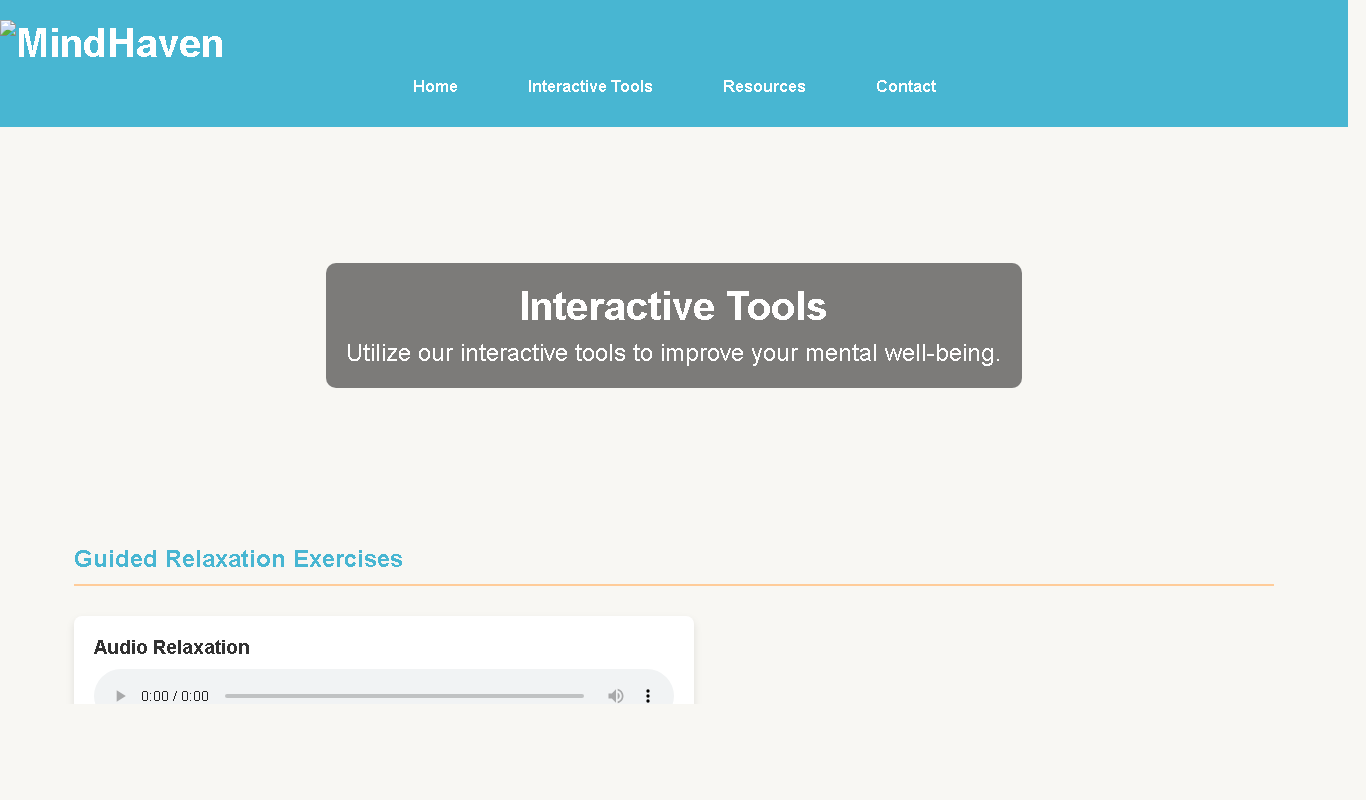
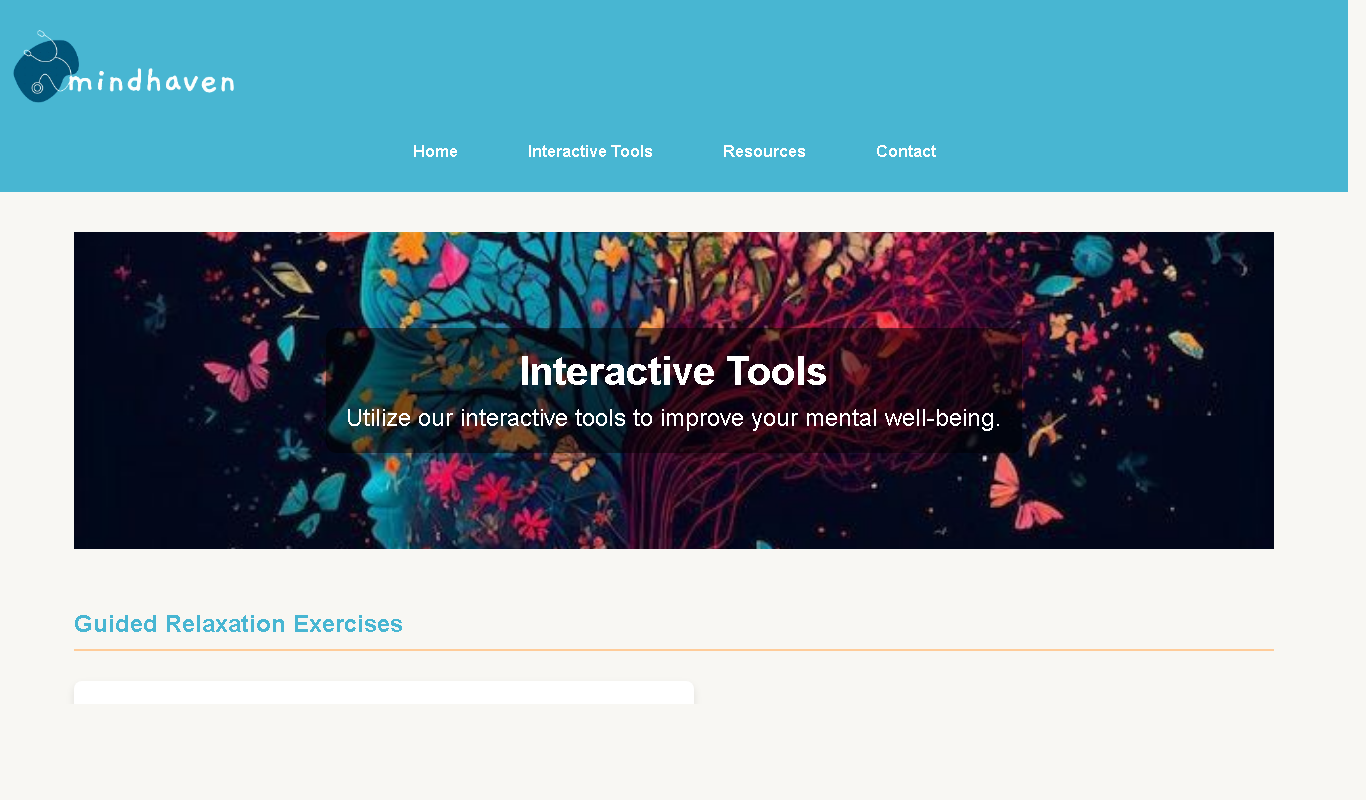
Fix broken image paths, remove personal name and phone numbers, document the demo access

diff --git a/website/profassistant.html b/website/profassistant.html
@@ -12,7 +12,7 @@
       <div class="container">
         <h1>
           <img
-            src="C:\Users\charfoun\Desktop\task bootcamp\Capture_d_écran_2024-11-23_233331-removebg-preview.png"
+            src="Capture_d_écran_2024-11-23_233331-removebg-preview.png"
             alt="MindHaven"
             style="width: 250px; height: auto"
           />
@@ -59,7 +59,7 @@
           <div class="card-list">
             <div class="card">
               <img
-                src="C:\Users\charfoun\Desktop\task bootcamp\istockphoto-1490764451-612x612.jpg"
+                src="istockphoto-1490764451-612x612.jpg"
                 alt="Dr. John Doe"
               />
               <div class="card-info">
@@ -72,7 +72,7 @@
             </div>
             <div class="card">
               <img
-                src="C:\Users\charfoun\Desktop\task bootcamp\istockphoto-1270067126-612x612.jpg"
+                src="istockphoto-1270067126-612x612.jpg"
                 alt="Dr. Jane Smith"
               />
               <div class="card-info">
@@ -85,7 +85,7 @@
             </div>
             <div class="card">
               <img
-                src="C:\Users\charfoun\Desktop\task bootcamp\istockphoto-1413764595-612x612.jpg"
+                src="istockphoto-1413764595-612x612.jpg"
                 alt="Dr. Emily Davis"
               />
               <div class="card-info">
@@ -98,7 +98,7 @@
             </div>
             <div class="card">
               <img
-                src="C:\Users\charfoun\Desktop\task bootcamp\happy-middle-aged-professional-business-260nw-2454390621.webp"
+                src="happy-middle-aged-professional-business-260nw-2454390621.webp"
                 alt="Dr. Michael Brown"
               />
               <div class="card-info">
@@ -118,11 +118,11 @@
           <h2>Emergency Services</h2>
           <ul>
             <li>
-              Emergency Hotline: <a href="tel:+21693466720">+216 93466720</a>
+              Emergency Hotline: <a href="tel:+21600000000">+216 00 000 000</a>
             </li>
             <li>
               Mental Health Hotline:
-              <a href="tel:+0987654321">+216 53534980</a>
+              <a href="tel:+21600000001">+216 00 000 001</a>
             </li>
             <!-- Add more emergency services as needed -->
           </ul>

diff --git a/website/home.html b/website/home.html
@@ -36,7 +36,7 @@
         <div class="product">
           <div class="product-image" onclick="expandImage(this)">
             <img
-              src="C:\Users\charfoun\Desktop\task bootcamp\c17d8ce3-8f84-420f-8e90-e95b76b3e36c.jpg"
+              src="c17d8ce3-8f84-420f-8e90-e95b76b3e36c.jpg"
               alt="Product 1"
               width="300"
             />

diff --git a/website/assistant.js b/website/assistant.js
@@ -10,7 +10,7 @@ document.addEventListener("DOMContentLoaded", () => {
     const accessCode = document.getElementById("access-code").value;
 
     // Example credentials for validation
-    const validName = "achref slimen";
+    const validName = "demo";
     const validAccessCode = "12345";
 
     if (name === validName && accessCode === validAccessCode) {

diff --git a/website/community.html b/website/community.html
@@ -12,7 +12,7 @@
       <div class="container">
         <h1>
           <img
-            src="C:\Users\charfoun\Desktop\task bootcamp\Capture_d_écran_2024-11-23_233331-removebg-preview.png"
+            src="Capture_d_écran_2024-11-23_233331-removebg-preview.png"
             alt="MindHaven"
             style="width: 250px; height: auto"
           />

diff --git a/website/contact.html b/website/contact.html
@@ -12,7 +12,7 @@
       <div class="container">
         <h1>
           <img
-            src="C:\Users\charfoun\Desktop\task bootcamp\Capture_d_écran_2024-11-23_233331-removebg-preview.png"
+            src="Capture_d_écran_2024-11-23_233331-removebg-preview.png"
             alt="MindHaven"
             style="width: 250px; height: auto"
           />

diff --git a/website/interactive.html b/website/interactive.html
@@ -12,7 +12,7 @@
       <div class="container">
         <h1>
           <img
-            src="C:\Users\charfoun\Desktop\task bootcamp\Capture_d_écran_2024-11-23_233331-removebg-preview.png"
+            src="Capture_d_écran_2024-11-23_233331-removebg-preview.png"
             alt="MindHaven"
             style="width: 250px; height: auto"
           />

diff --git a/website/subscription.html b/website/subscription.html
@@ -12,7 +12,7 @@
       <div class="container">
         <h1>
           <img
-            src="C:\Users\charfoun\Desktop\task bootcamp\Capture_d_écran_2024-11-23_233331-removebg-preview.png"
+            src="Capture_d_écran_2024-11-23_233331-removebg-preview.png"
             alt="MindHaven"
             style="width: 250px; height: auto"
           />

diff --git a/website/welcome.html b/website/welcome.html
@@ -11,7 +11,7 @@
       <div class="container">
         <h1>
           <img
-            src="C:\Users\charfoun\Desktop\task bootcamp\Capture_d_écran_2024-11-23_233331-removebg-preview.png"
+            src="Capture_d_écran_2024-11-23_233331-removebg-preview.png"
             alt="MindHaven"
             style="width: 250px; height: auto"
           />

diff --git a/website/assistant.css b/website/assistant.css
@@ -66,7 +66,7 @@ main {
 
 /* Hero section styles */
 .hero-section {
-  background: url("C:/Users/charfoun/Desktop/task bootcamp/21d62c277a1c1ffe35916efacf7d.jpg")
+  background: url("21d62c277a1c1ffe35916efacf7d.jpg")
     no-repeat center center / cover;
   color: white;
   text-align: center;

diff --git a/website/comm.css b/website/comm.css
@@ -66,7 +66,7 @@ main {
 
 /* Hero section styles */
 .hero-section {
-  background: url("C:/Users/charfoun/Desktop/task bootcamp/5-Group-Therapy-Activities.jpeg")
+  background: url("5-Group-Therapy-Activities.jpeg")
     no-repeat center center / cover;
   color: white;
   text-align: center;

diff --git a/website/1.css b/website/1.css
@@ -49,7 +49,7 @@ nav ul li a:hover {
 }
 
 .hero-section {
-  background: url("C:/Users/charfoun/Desktop/task bootcamp/pexels-photo-4101143.jpeg")
+  background: url("pexels-photo-4101143.jpeg")
     no-repeat center center / cover;
   color: white;
   text-align: center;

diff --git a/website/interactive.css b/website/interactive.css
@@ -66,7 +66,7 @@ main {
 
 /* Hero section styles */
 .hero-section {
-  background: url("C:/Users/charfoun/Desktop/task bootcamp/download (1).jpg")
+  background: url("download (1).jpg")
     no-repeat center center / cover;
   color: white;
   text-align: center;
